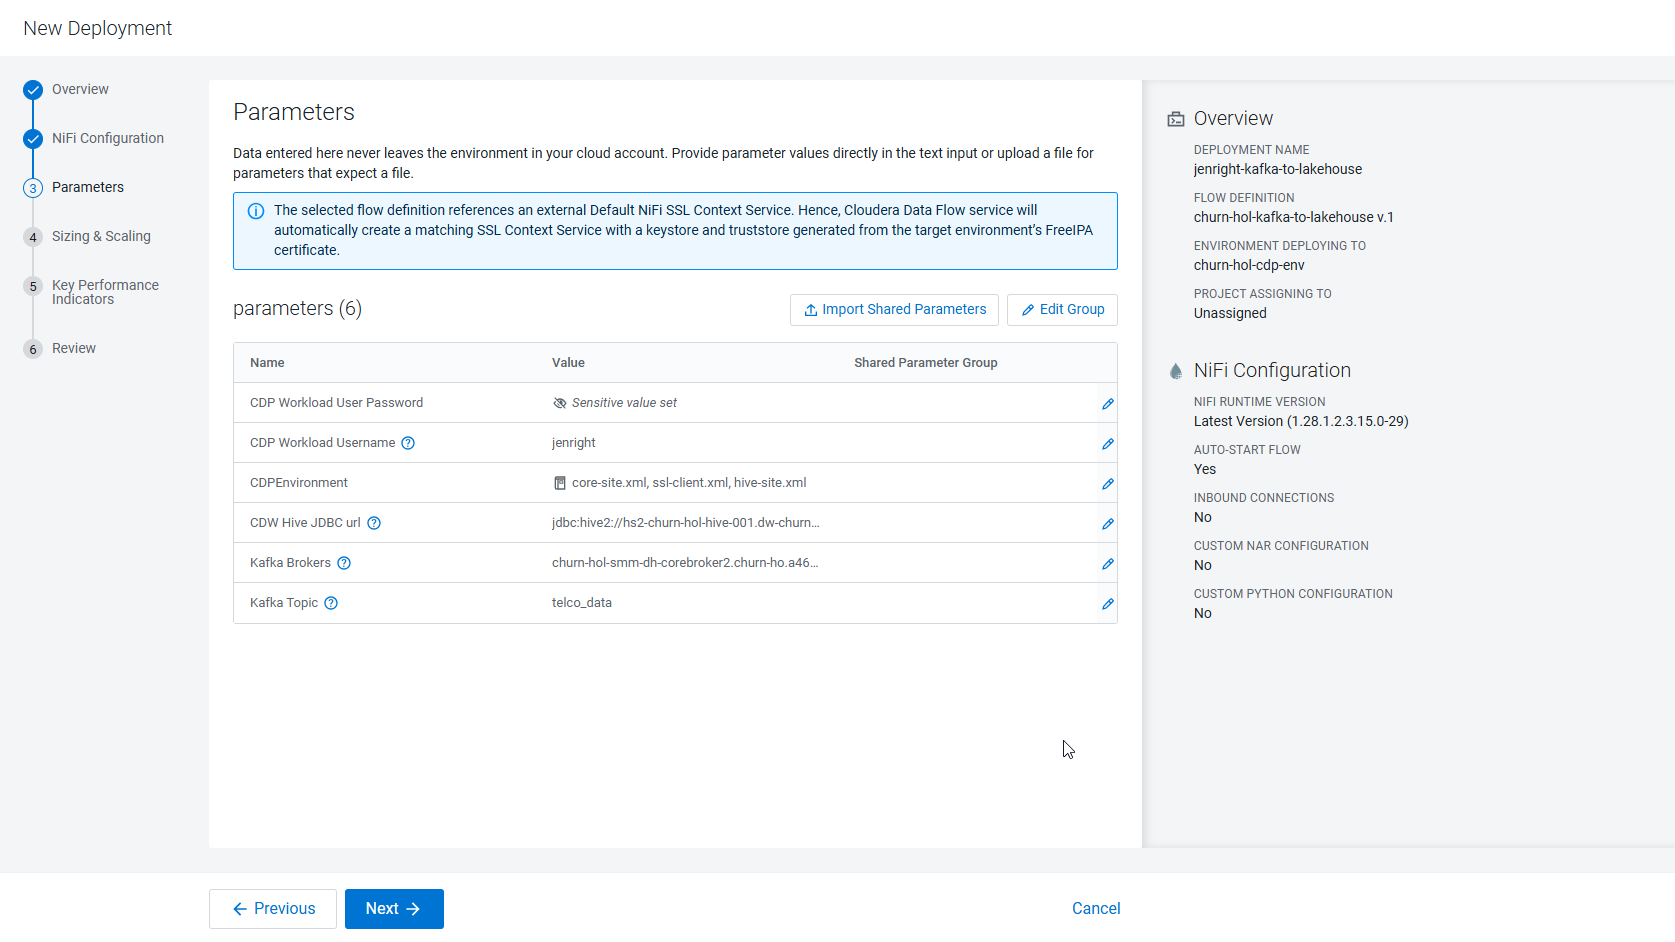
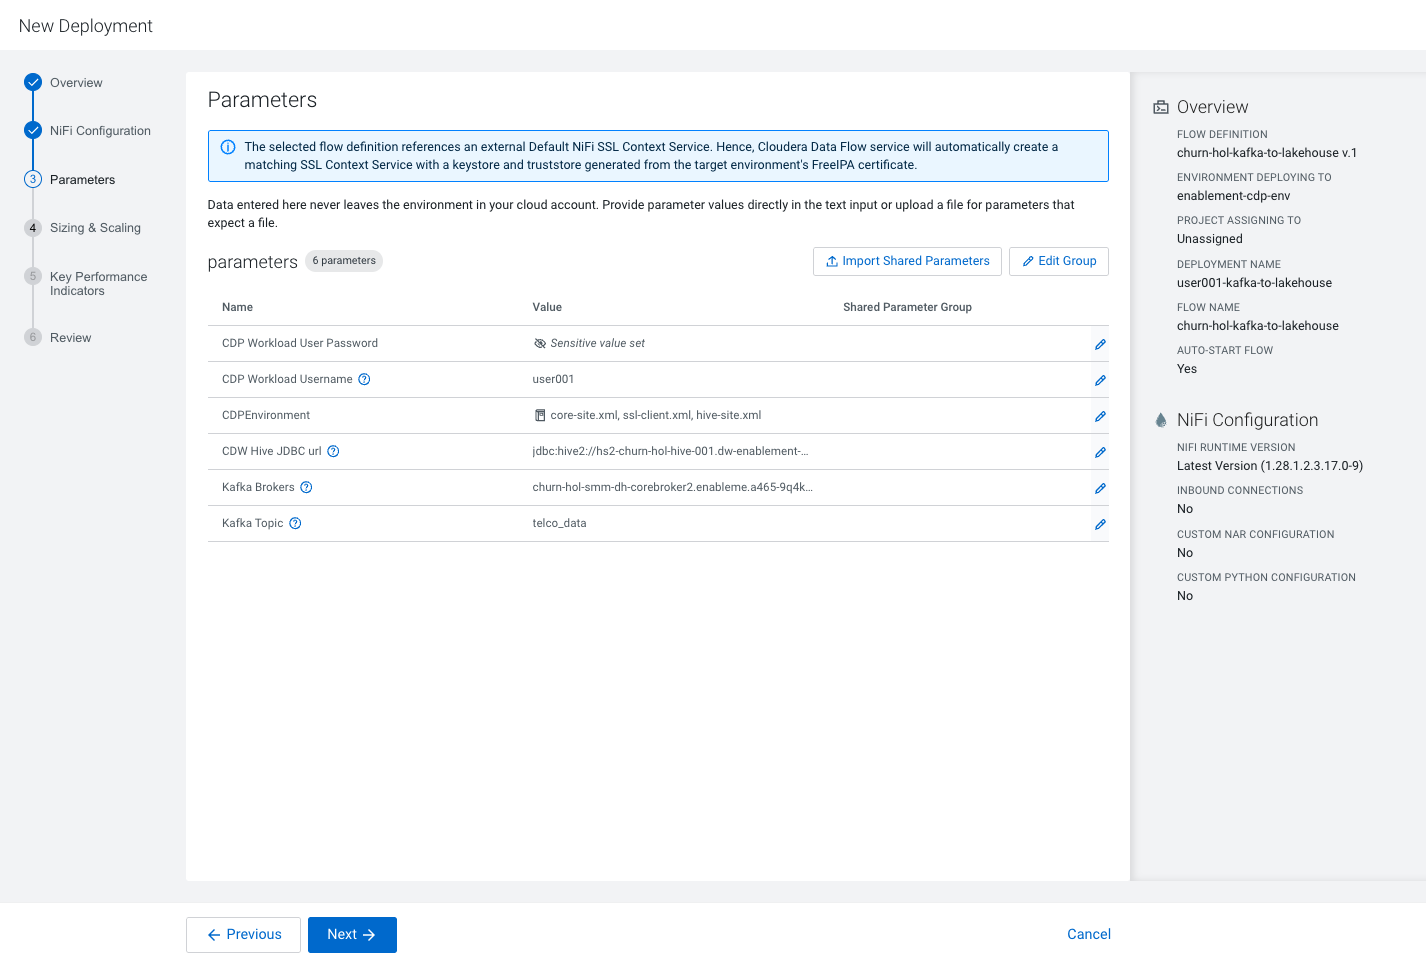
Update CDF images in Lab Guide (#26)

diff --git a/content/labs/lab1-cdf/README.md b/content/labs/lab1-cdf/README.md
@@ -32,9 +32,13 @@ Click on the Flow called `{{ kafka_to_lakehouse_flow_name | default("cdp_hol_kaf
 
 ### Configure and Deploy Flow
 
-When the flow is clicked, the panel shown in the image below appears with the Flow information. It shows the available versions, creation date, creator user, and a button **Deploy** to start the deployment. Click on that **Deploy** button.
+When the flow is clicked, the panel shown in the image below appears with the Flow information. It shows the available versions, creation date, creator user, and a button **Deploy** to start the deployment.
 
 ![Cloudera DataFlow Deploy Flow](cdf_deploy_flow.png)
+
+ Click on that **Deploy** button, and select **Create New Deployment**.
+
+![Cloudera DataFlow Deploy Flow](cdf_deploy_flow2.png)
 
 The popup window that appears allows you to select the target Data Flow workspace in which you want to deploy the Flow. In this case, the workspace to be selected is **`{{ cdp_environment_name | default("cloudera-cdp-hol-cdp-env") }}`**. Once selected, click **Continue**.
 
@@ -46,13 +50,15 @@ The popup window that appears allows you to select the target Data Flow workspac
 From this point, you will need to enter the Flow configuration.
 
 Start by assigning a **Deployment Name**, **Target Project** as outlined below, and click **Next**.
-
-- For **Deployment Name**, please prefix the with your username. For example, `USERNAME-kafka-to-lakehouse`
+- For **Deployment Name**, please prefix the with your username.  `USERNAME-kafka-to-lakehouse`
 - Select `Unassigned` for the **Target Project**. Using a project is a way to organize your flows.
+- Flow Name is already pre-filled by default.
+- Option **Automatically start flow upon successful deployment** should be enabled
+
 
 ![Cloudera DataFlow Deploy Flow Step 2](cdf_deploy_flow_step2.png)
 
-Make sure the option **Automatically start flow upon successful deployment** is checked and click **Next**.
+- Once all values are entered, click **Next**.
 
 ![Cloudera DataFlow Deploy Flow Step 3](cdf_deploy_flow_step3.png)
 

diff --git a/content/labs/lab2-cde/README.md b/content/labs/lab2-cde/README.md
@@ -67,6 +67,8 @@ Click on the CDE Job button and drag onto the canvas, entering the following set
 
 ![Add Data Enrichment Job](cde_add_enrichment_job.png)
 
+- Click **Save** button.
+
 ### Configure Table Update job
 
 Configure the second Job - Table Update.
@@ -80,6 +82,8 @@ the following settings:
 - **Arguments**: Enter your Workload Username, `USERNAME`.
 
 ![Add Table Update Job](cde_add_table_update_job.png)
+
+- Click **Save** button.
 
 ### Configure Job Execution Squenence
 
